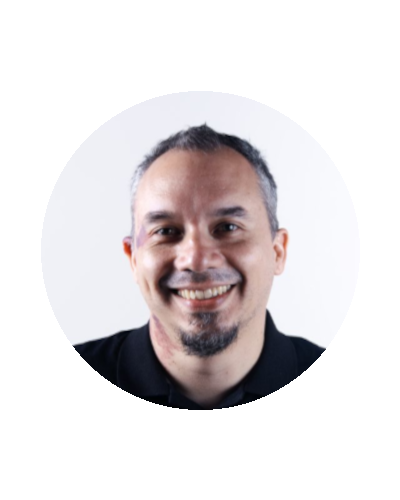
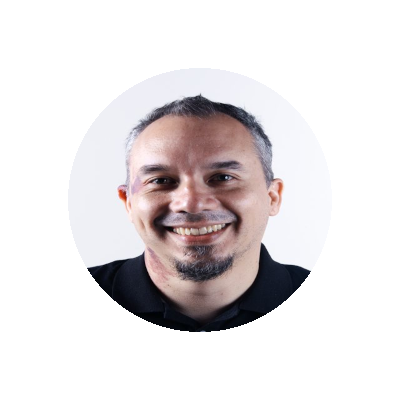
exercício-parte3

Changed region(s): [[0.18, 0.24, 0.72, 0.84], [0.69, 0.66, 0.81, 0.78]]

diff --git a/Aulas/aula-12_ex/ex015/script.js b/Aulas/aula-12_ex/ex015/script.js
@@ -9,13 +9,42 @@ function verificar() {
         var fsex = document.getElementsByName('radsex')
         var idade = ano - Number(fano.value)
         var genero = ''
+        var img = document.createElement('img')
+        img.setAttribute('id', 'foto')
         if (fsex[0].checked) {
             genero = 'Homem'
+            if (idade >= 0 && idade < 10) {
+                // Criança
+                img.setAttribute('src', 'img/kids-m.png')
+            } else if (idade < 21) {
+                // Jovem
+                img.setAttribute('src', 'img/jovem-m.png')
+            } else if (idade < 50) {
+                // Adulto
+                img.setAttribute('src', 'img/adulto-m.png')
+            } else {
+                // Idoso
+                img.setAttribute('src', 'img/idoso.png')
+            }
         } else if (fsex[1].checked) {
             genero = 'Mulher'
+            if (idade >= 0 && idade < 10) {
+                // Criança
+                img.setAttribute('src', 'img/kids-f.png')
+            } else if (idade < 21) {
+                // Jovem
+                img.setAttribute('src', 'img/jovem-f.png')
+            } else if (idade < 50) {
+                // Adulto
+                img.setAttribute('src', 'img/adulto-f.png')
+            } else {
+                // Idoso
+                img.setAttribute('src', 'img/idosa.png')
+            }
         }
         res.style.textAlign = 'center'
         res.innerHTML = `Detectamos ${genero} com ${idade} anos.`
+        res.appendChild(img)
     }
 
 }
